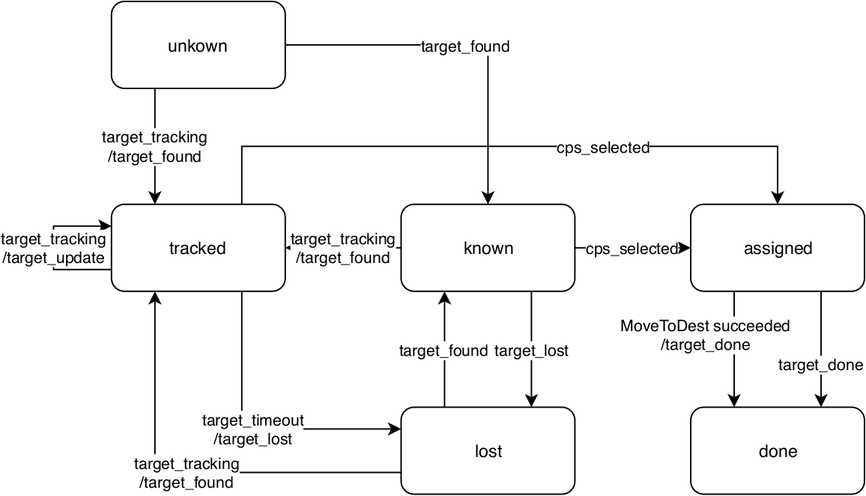
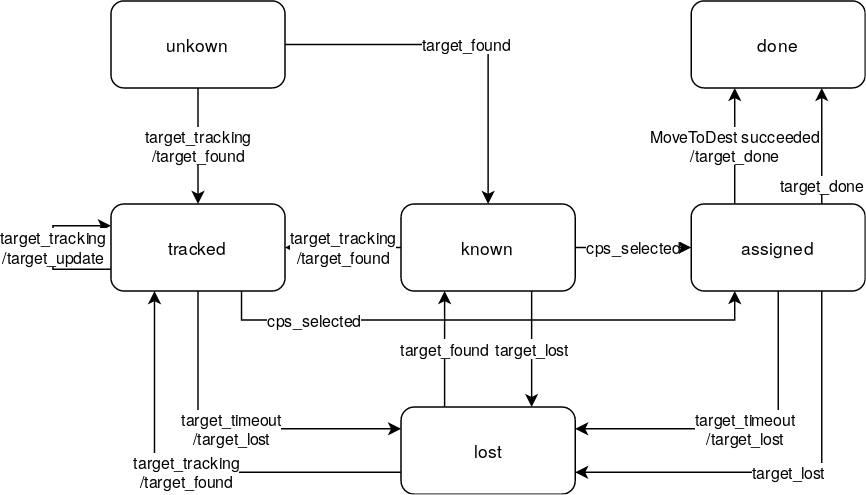
target monitor keeps track of lost targets that are already assigned

diff --git a/target_monitor/src/lib/target.cpp b/target_monitor/src/lib/target.cpp
@@ -71,7 +71,7 @@ geometry_msgs::Pose target::get_pose ()
 void target::lost ()
 {
     // target is being tracked
-    if (state == TARGET_TRACKED) {
+    if (state == TARGET_TRACKED || state == TARGET_ASSIGNED) {
         // no updates received within timeout
         if (stamp + timeout < Time::now()) {
             // update target information
